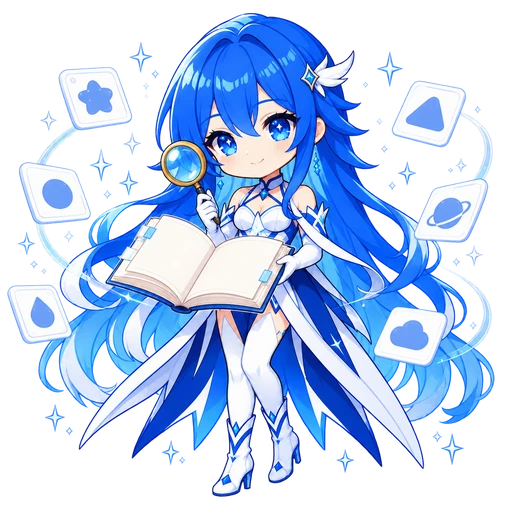
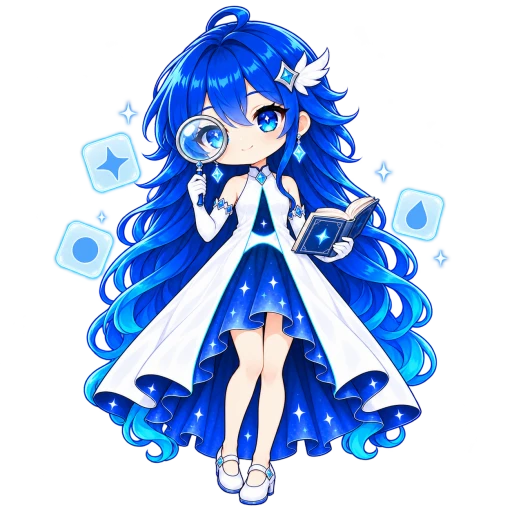
feat(ui): redraw the Airis empty-state artwork for the dark theme
Redraw today, editor-library and catalog in the approved character design: the two-layer dress draws the Bridge logo A, rendered with clean cel shading on a fully transparent background. Document the two-step WebP conversion that keeps the background at alpha 0.

diff --git a/odd/tasks/airis-dark-artwork.md b/odd/tasks/airis-dark-artwork.md
@@ -11,11 +11,13 @@ Redraw the Airis empty-state artwork so it belongs to the dark theme and carries
 - TDD: not applicable — binary artwork and passive documentation have no meaningful RED. Verification is the asset gate, visual inspection on dark and light surfaces, and the repository pre-commit gate.
 
 ## Tasks
-- [ ] ADA-1 — Add the Airis character reference (turnaround sheet + canon document) under `docs/design/airis/`. Route: inline (documentation + one image). Acceptance: sheet committed as WebP, canon document lists design rules and generation lessons. Checks: pre-commit gate.
-- [ ] ADA-2 — Regenerate the three empty-state assets in the approved design, keeping each screen's theme (Today: calendar/plus/clock; Editor Library: covers/shelf; Catalog: magnifier/book/genre tiles). Route: inline generation + delegated verification. Acceptance: three 512x512 transparent WebP files pass `check:airis-assets`, read at 160 px and 40 px on dark and light surfaces, no grey/purple glow, no painterly hair texture. Checks: `check:airis-assets`, its Vitest suite, delegated verify, pre-commit gate.
+- [x] ADA-1 — Add the Airis character reference (turnaround sheet + canon document) under `docs/design/airis/`. Route: inline (documentation + one image). Acceptance: sheet committed as WebP, canon document lists design rules and generation lessons. Checks: pre-commit gate.
+- [x] ADA-2 — Regenerate the three empty-state assets in the approved design, keeping each screen's theme (Today: calendar/plus/clock; Editor Library: covers/shelf; Catalog: magnifier/book/genre tiles). Route: inline generation + delegated verification. Acceptance: three 512x512 transparent WebP files pass `check:airis-assets`, read at 160 px and 40 px on dark and light surfaces, no grey/purple glow, no painterly hair texture. Checks: `check:airis-assets`, its Vitest suite, delegated verify, pre-commit gate.
 
 ## Progress and evidence
 - Exploration: current assets are 512x512 `yuva420p` WebP; the gate checks codec, dimensions and transparency only. Design iterations live outside the repo in `%TEMP%/airis-preview/` (`n3-slim.png` base, `airis-turnaround-v2.png` sheet).
+- ADA-1: done in `3c35829` (model sheet WebP + `character.md`); pre-commit gate ran (all jobs skipped as no matching code).
+- ADA-2: three scenes generated with native transparency from the model sheet, keeping each screen's theme. First conversion (`-compression_level 6`, single pass) passed `check:airis-assets` but left the background at alpha 1–39 (alpha-0 pixels 6836/262144), a faint square on light surfaces. Two-step conversion (area scale to PNG, then libwebp `-quality 90`) restored alpha 0 (today 111667, editor-library 124605, catalog 135353; old today 109429); outer 2-px border has no alpha > 40; full-size light-surface check shows no box. Pipeline documented in `character.md`; lesson logged. Delegated verify passed: `check:airis-assets` exact line; Vitest 2 files/9 tests; ffprobe webp 512x512 yuva420p for all three; alpha-0 counts as above; twelve 2-px border strips with no alpha > 40; `layout:smoke` 212 checks (96 Airis checks, artwork 160x160); scope = the five candidate files plus this task record. Committed as the work-unit commit `feat(ui): redraw the Airis empty-state artwork for the dark theme`.
 
 ## Next step
-ADA-1.
+Feature complete. Follow-ups (not in scope): tighten `check-airis-assets.mjs` to require fully transparent corners; new `season`/`history` artwork; Season empty states with step actions; Selection `Confirmed 12/31/1969` null-timestamp bug.

diff --git a/docs/learning-log.md b/docs/learning-log.md
@@ -278,3 +278,4 @@ this file only explains the *why*, it never replaces the *how*.
 - [2026-09-27]: Release 1.16.0 ships Editor cover thumbnails on a new additive hasCover list flag; minor bump because the wire change is backward compatible.
 - [2026-10-07]: Fallow's audit scores a React hook's cognitive complexity by its hook calls, so one extra custom-hook call pushed useDailyBoard from 15 to 16 and flipped the audit verdict to fail; fold the new concern into an existing derived-state hook instead of adding a call.
 - [2026-10-07]: Extracting existing JSX into a new component makes staged mutation re-mutate every moved guard and class literal; budget behavior tests for moved code, and collapse repeated fallbacks (title and tooltip) into one local so one test kills them.
+- [2026-10-09]: Airis WebP conversion can pass check:airis-assets yet leave the background at alpha 1-39 (a faint square on light surfaces); scale to PNG first, encode with libwebp -quality 90, and verify the background alpha is 0.

diff --git a/docs/design/airis/character.md b/docs/design/airis/character.md
@@ -88,6 +88,16 @@ Every layer needs a physical reason to hang where it does.
 - Generate with a fully transparent background requested in the prompt and PNG
   output, then convert to 512x512 WebP. Do not remove a chroma-key background
   locally: despill turns the cyan glows grey.
+- Convert in two steps and check that the background is still alpha 0:
+
+  ```bash
+  ffmpeg -i source.png -vf "scale=512:512:flags=area" -c:v png scene-512.png
+  ffmpeg -i scene-512.png -vf format=yuva420p -c:v libwebp -quality 90 scene.webp
+  ```
+
+  A single-pass conversion with `-compression_level 6` left the background at
+  alpha 1–39, which shows as a faint square on a light surface while still
+  passing `check:airis-assets`.
 - State the construction and rendering style in every prompt. Chained edits
   drift and accumulate texture; restart from the model sheet when they do.
 - Turnaround generators mirror profiles. Say on which side each asymmetric
